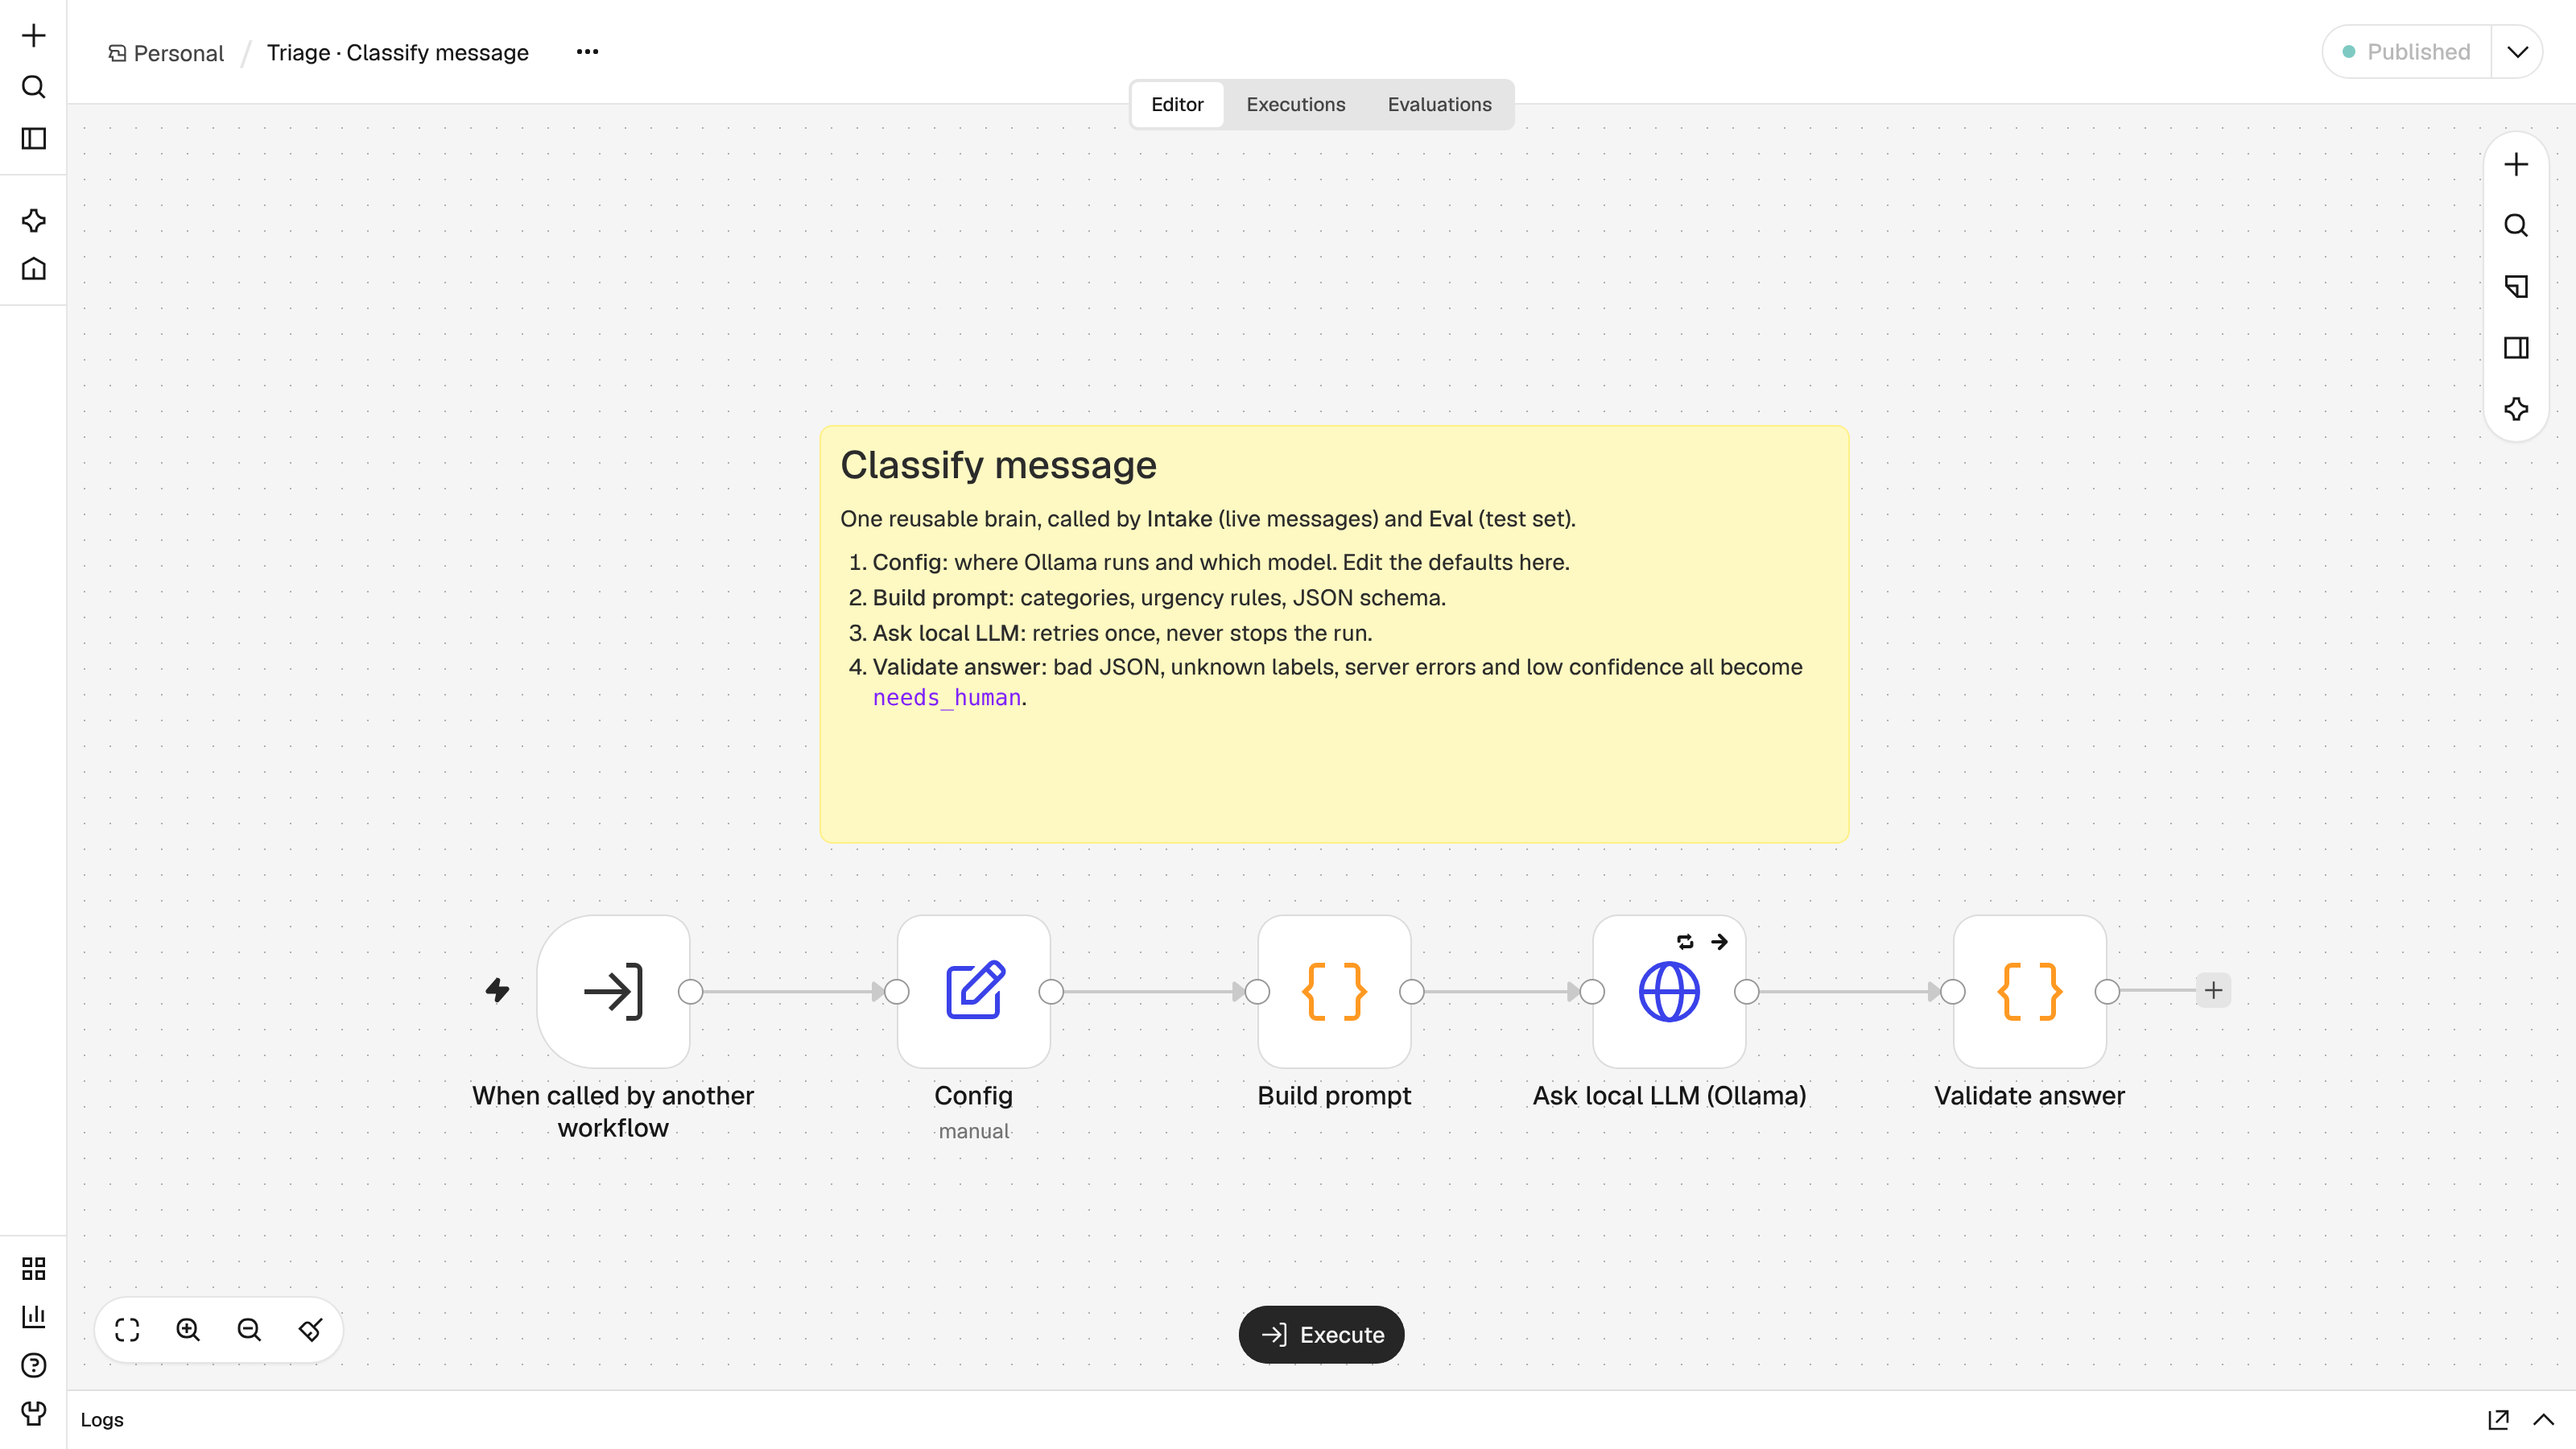
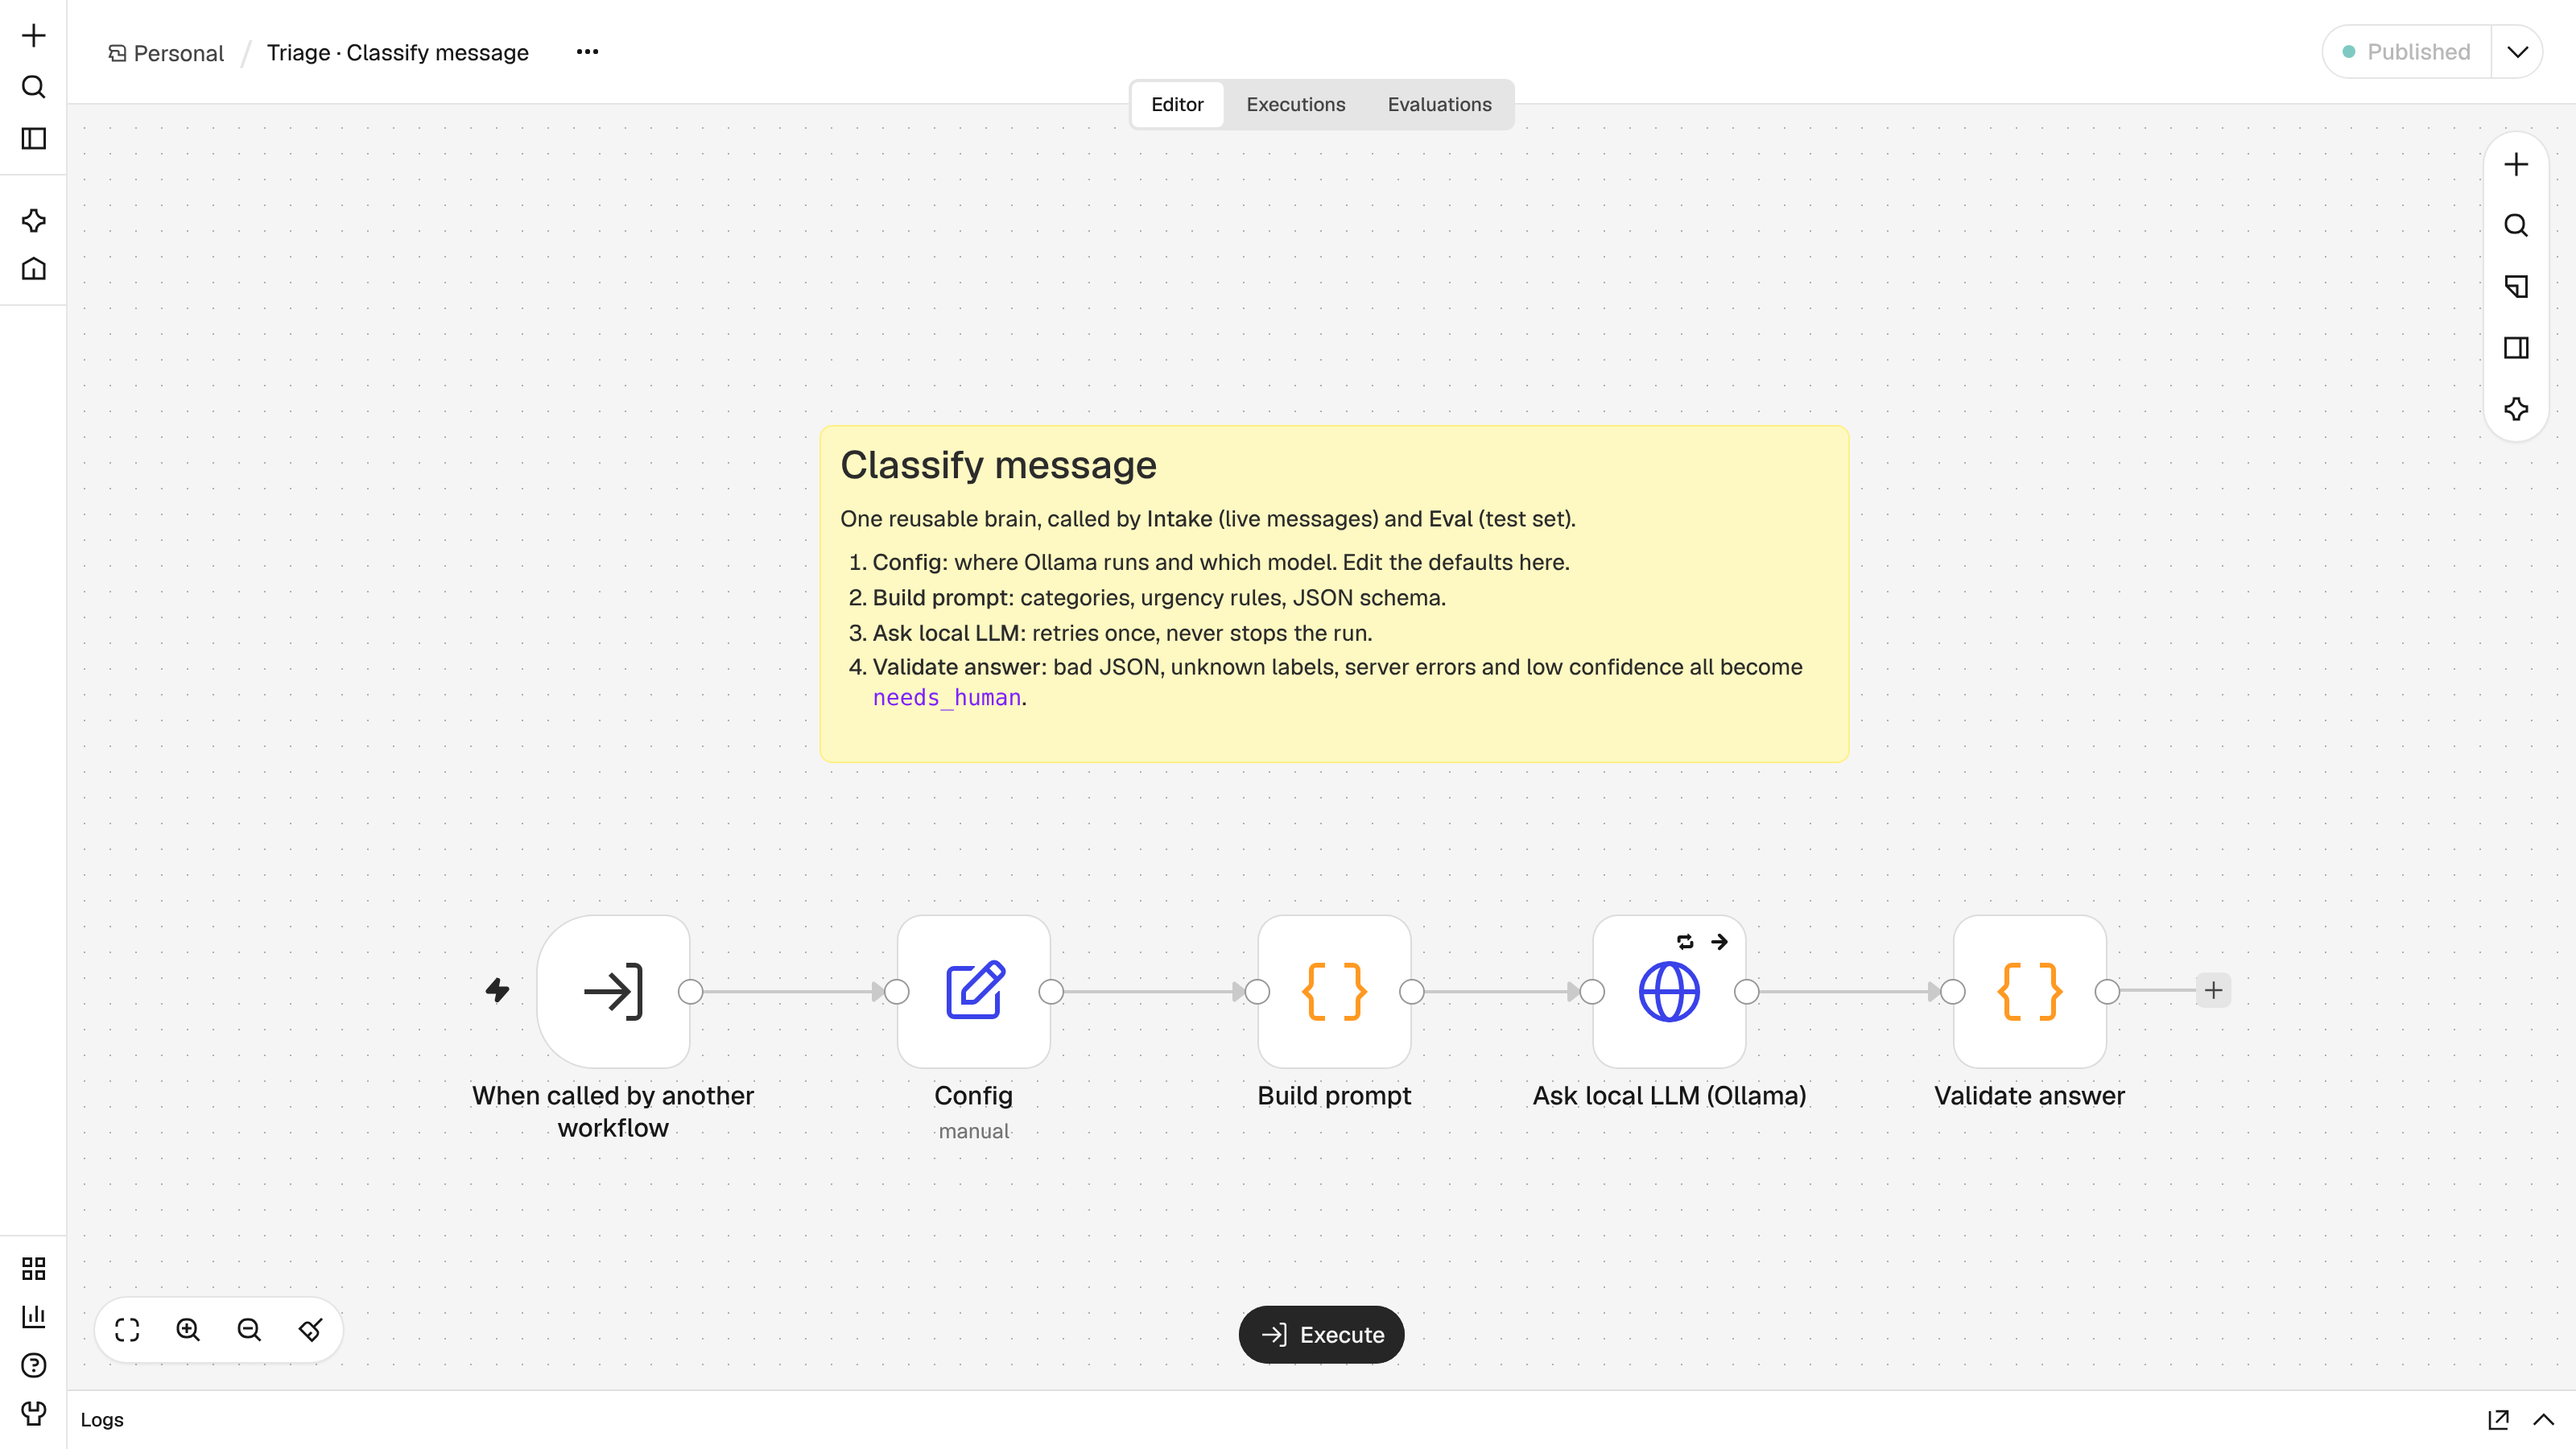
Fix website reply leak and urgent web routing; clearer docs and screenshots
- Website now gets only the route and a fixed thank-you, never the AI draft
- Urgent website messages alert the owner instead of asking to send a reply
  the bot cannot deliver
- Telegram photos/stickers with no text go to a human
- Eval runner no longer times out on slow real models
- Model eval defaults to gemma3:4b to match the README

Claude-Session: https://claude.ai/code/session_011wmLjr1v7V3tUfDnP87Jdw

Changed region(s): [[0.3125, 0.4978, 0.7188, 0.5911]]

diff --git a/README.md b/README.md
@@ -8,7 +8,7 @@ An n8n automation that reads customer messages for a small Ethiopian online shop
 
 | Message type | What happens |
 |---|---|
-| **urgent** (money lost, broken item, angry customer) | Owner gets the AI draft reply in Telegram and taps ✅ to send or ❌ to handle it |
+| **urgent** (money lost, broken item, angry customer) | Telegram customer: owner gets the AI draft reply in Telegram and taps ✅ to send or ❌ to handle it. Website customer: owner is alerted to reply personally |
 | **needs_human** (model unsure, broken answer, LLM down) | Owner is pinged in Telegram |
 | **auto** (simple question) | Customer gets a fixed thank-you in their language. Never free AI text |
 | **spam** | Logged only |
@@ -18,7 +18,7 @@ Every message is logged to Google Sheets. Any crash sends the owner a Telegram a
 ## Workflows (`workflows/`)
 
 1. **Classify message**: shared sub-workflow. Prompt + JSON schema → Ollama → guardrails (bad JSON, unknown label, server error, low confidence → `needs_human`).
-2. **Intake**: website webhook or Telegram bot → classify → reply / log / route.
+2. **Intake**: website webhook or Telegram bot → classify → reply / log / route. The website only gets back the route and a fixed thank-you, never the AI's draft text.
 3. **Eval**: runs the labelled test set through the same Classify step and reports accuracy, per-language accuracy, confusion matrix, and urgent messages it missed.
 4. **Error alert**: Telegram alert when any triage workflow fails.
 
@@ -30,7 +30,7 @@ Every message is logged to Google Sheets. Any crash sends the owner a Telegram a
 | model | n | category acc | urgency acc | urgent missed | english | amharic | amharic_latin |
 | mock  | 60 | 95% | 95% | 0 | 90% | 100% | 100% |
 PASS: all 3 planted faults were caught and routed to a human
-PASS: routes, owner approval, human alert and error alert all work
+PASS: routes, urgent alert, human alert and error alert all work; no AI text reaches the website
 ```
 
 `model-eval.yml` (run by hand from the Actions tab) installs Ollama and scores a real model on the same 60 messages.
@@ -42,7 +42,8 @@ PASS: routes, owner approval, human alert and error alert all work
 1. Install [Ollama](https://ollama.com), then `ollama pull gemma3:4b`.
 2. Start n8n: `npx n8n` (needs Node 24) or `docker run -it -p 5678:5678 n8nio/n8n`.
 3. In n8n: **Workflows → Import from file**, import the 4 files in order (1 → 4).
-4. Add your Telegram bot and Google Sheets credentials to the Telegram / Sheets nodes. Fill in **Shop settings** (your Telegram chat ID and sheet ID; sheet tab named `Inbox`).
+4. Add your Telegram bot and Google Sheets credentials to the Telegram / Sheets nodes. Fill in **Shop settings** in Intake (your Telegram chat ID and sheet ID; sheet tab named `Inbox`) and **Settings** in Error alert (your chat ID again).
+   The **Telegram Trigger** node ships turned off, so the workflow can be published before you have a bot. Turn it on once your bot credential is added.
 5. Publish Classify first, then the others. Test: `curl -X POST localhost:5678/webhook/triage -H "content-type: application/json" -d "{\"text\":\"Where is my order 4471?\"}"`
 
 Telegram approval buttons need n8n reachable from the internet (n8n Cloud, or a tunnel).

diff --git a/docs/walkthrough.md b/docs/walkthrough.md
@@ -28,12 +28,13 @@ Read this with the workflow open in n8n. Each part ends with what to say in an i
 |---|---|
 | Webhook (website form) | URL a website can POST `{"text": "..."}` to. Answers through "Reply to website" |
 | Telegram Trigger | Same, for a Telegram bot. Turned off until you add a bot token |
-| From web / From Telegram (Code) | Turn both shapes into one: `channel, from, chat_id, text`. Empty text throws an error |
+| From web / From Telegram (Code) | Turn both shapes into one: `channel, from, chat_id, text`. Empty website text throws an error. A Telegram photo or sticker with no text goes to a human |
 | Shop settings | Owner's Telegram chat ID and Google Sheet ID. Named `cfg_...` so Classify strips them and they never leak into replies or the sheet |
 | Classify message | Calls workflow 1 |
-| Came from website? → Reply to website | Sends the result back to the website right away |
+| Came from website? → Reply to website | Sends the website only the route and a fixed thank-you, never the AI draft |
 | Log to Google Sheet | Appends every message. Set to continue on error so a Sheets outage never blocks customers |
 | Route (Switch) | 4 exits: urgent, needs_human, auto, spam |
+| Urgent from Telegram? | Telegram customers can get the approved AI reply. Website customers can't, so the owner gets an alert to reply personally ("Alert owner: urgent web message") |
 | Owner approves AI reply | Telegram **Send and Wait**: the workflow pauses until the owner taps a button (max 2 hours) |
 | Approved + Telegram customer? → Send approved reply | Sends the AI draft only if approved |
 | Alert owner: needs a human | Pings the owner with a summary |
@@ -67,7 +68,7 @@ Error Trigger → Settings → Telegram message with the workflow name, failing 
 - `mock-ollama.mjs`: fake LLM + fake Telegram API.
 - `start-n8n.sh`: imports and publishes the workflows in the official n8n Docker image.
 - `run-eval.mjs --mock`: the 3 planted faults must each be caught (exact numbers: 60 items, 95%).
-- `test-intake.mjs`: 4 messages land on the right route; owner gets exactly 3 Telegram messages (approval, human alert, error alert).
+- `test-intake.mjs`: 4 messages land on the right route; owner gets exactly 3 Telegram messages (urgent alert, human alert, error alert); the website never receives AI text.
 
 ## Practice questions
 
